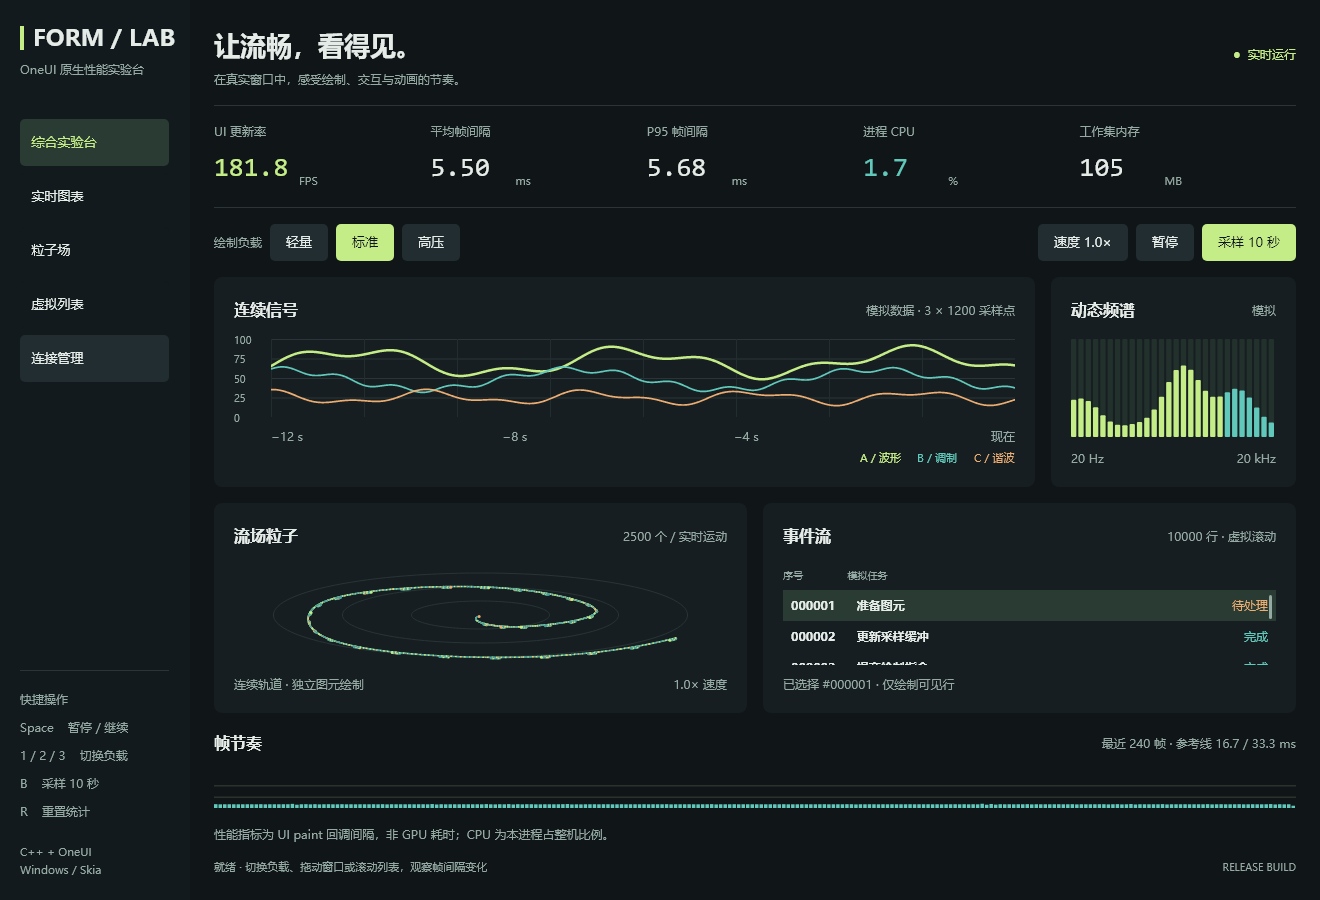
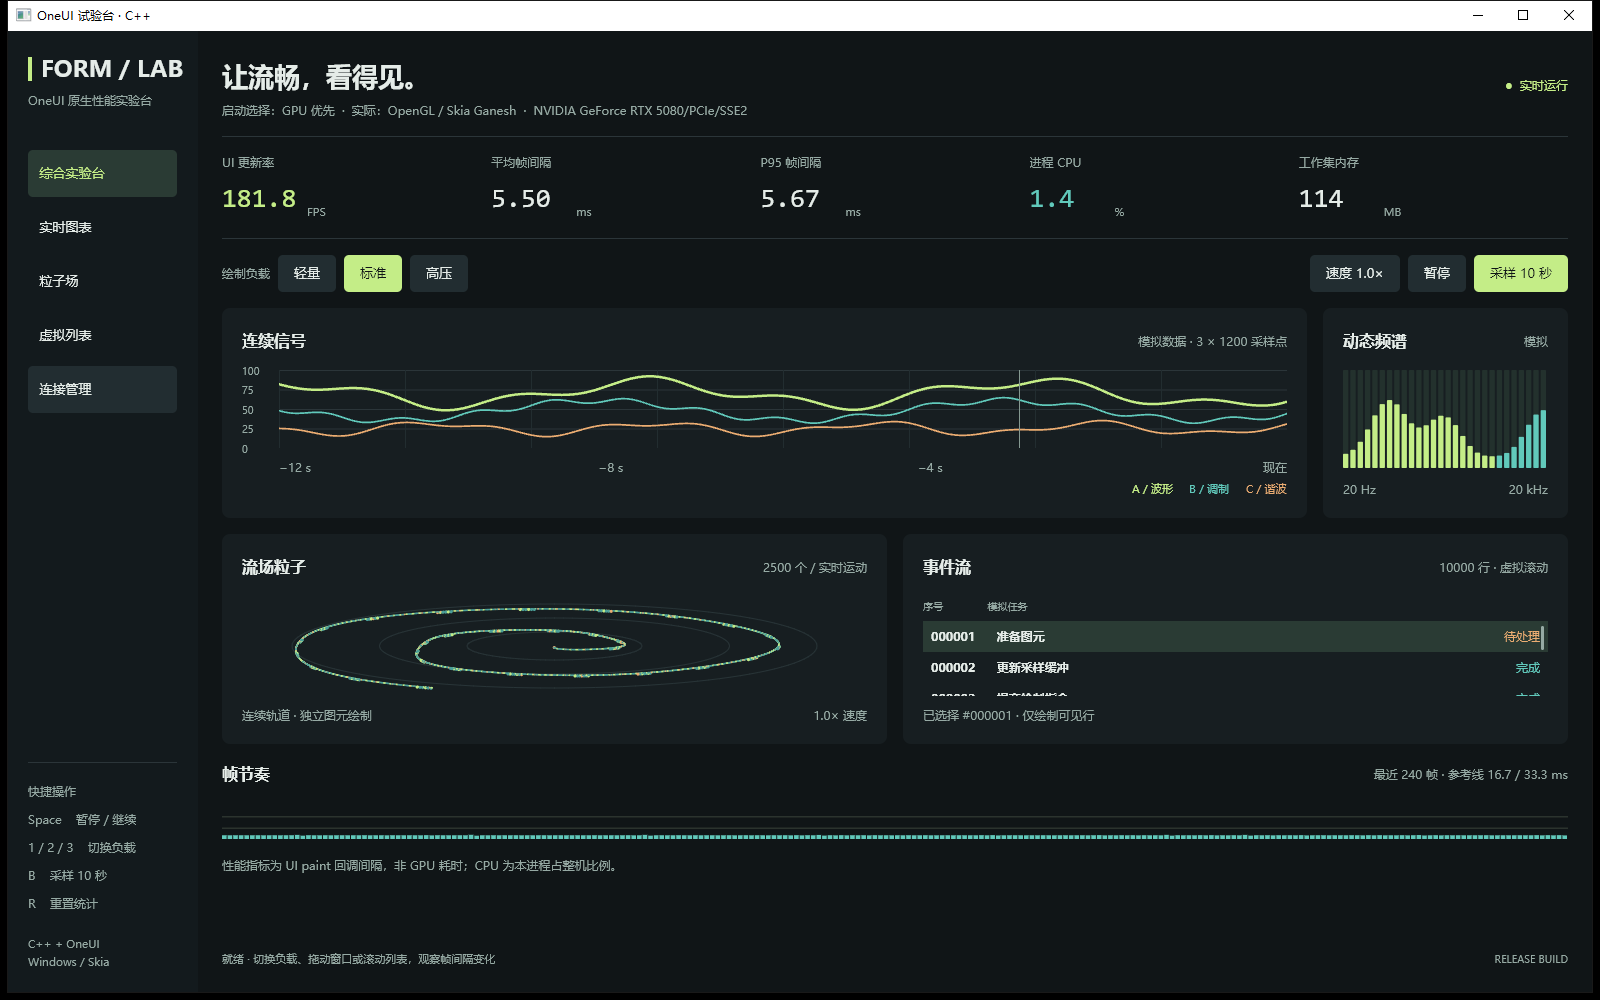
docs: keep only the performance lab screenshot in the READMEs
Refresh it with a current capture (RTX 5080, OpenGL: ~182 FPS, 5.49 ms average
frame interval) and drop the other screenshots from the front pages.

diff --git a/README_EN.md b/README_EN.md
@@ -16,19 +16,13 @@ Native connection workspace: searchable connections, stable-ID tabs, draggable s
 
 Use `Workspace` for page regions, `DockPanel` for panel headers/body/footer, and `ToolButton` for consistent actions. C++ and `.one` share these retained native components.
 
-![OneUI terminal workspace](docs/images/terminal-workspace-v4/dark-wide.png)
-
 **Stage status:** the first C++ / `.one` declarative development stage is complete; this remains a 0.1 development release. [Delivered scope, regression checks and remaining validation](docs/58-declarative-workspace-stage.md).
 
 ## Running examples
 
 Default light form with responsive columns:
 
-![Native light form](docs/images/typed-authoring/editor-light-wide.png)
-
 Dark compact table with 1,000 simulated records:
-
-![Native dark table](docs/images/performance-lab/table-dark-wide.png)
 
 Charts, particles, scrolling and live process metrics:
 
@@ -72,8 +66,6 @@ If VS is not found, check the C++ and CMake installation components. Missing `sk
 ## Shadows, gradients and motion
 
 Run `.\examples\performance_lab\run.ps1 -Build -Effects` to adjust multi-stop gradients, outer/inner shadows, expansion and fading. Add `motion-lift` or `motion-press` to a button for hover/press feedback; bind `Reveal.open` to show or hide retained content. Effects are opt-in; the default pages remain flat.
-
-![Native effects gallery](docs/images/effects/effects-light-1320-1.png)
 
 Both Skia software and GPU renderers support these effects. Gradients change immediately; stop interpolation is not animated. See [C++/template examples, CSS limits and measurement instructions](docs/51-effects-and-motion.md) (Chinese).
 
